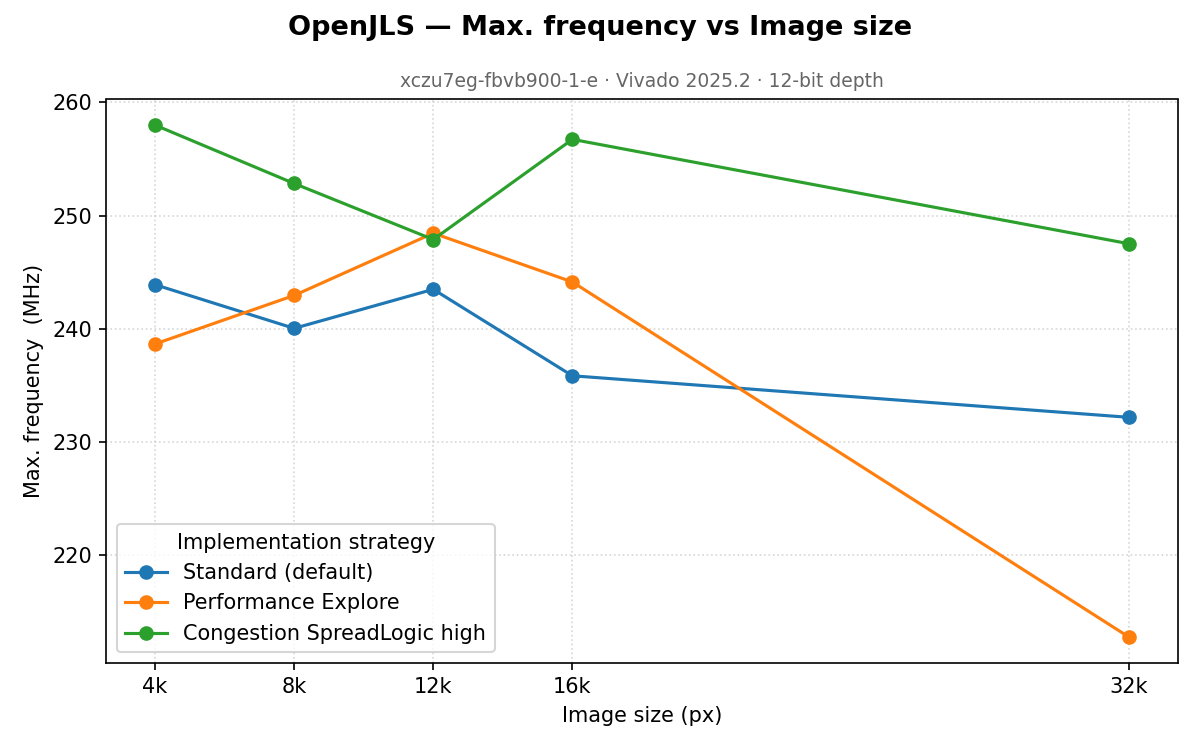
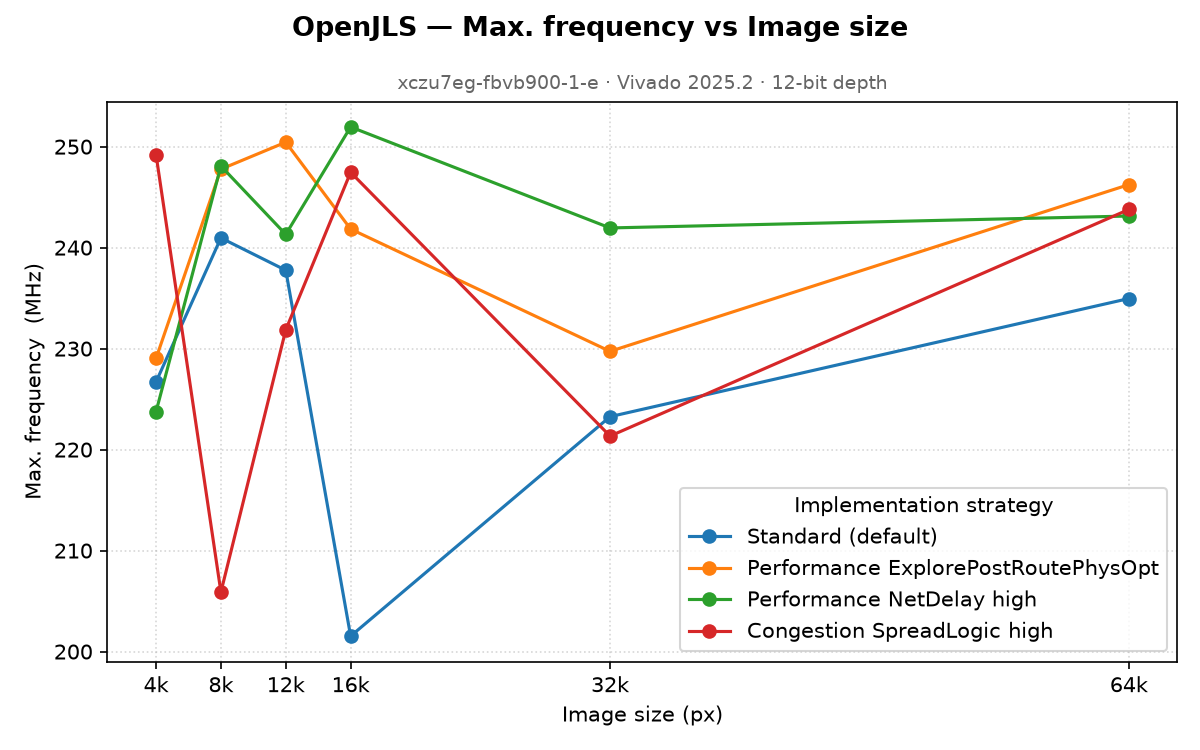
Update fmax/resource data in README and datasheet for the retuned strategies
Refresh the characterization with the current (post bug-fix) RTL and the new
implementation-strategy set. No single strategy wins at every size (the design
is congestion-bound), so document per-size winners; quote the defensible
~240 MHz (best-of floor is 242, only one size tops 250) instead of ~250, with a
242-252 best-of range. Regenerate the fmax plot (Default + EPRPO + NetDelay +
Congestion; Explore dropped) and resource table (incl. 65535).

diff --git a/Docs/datasheet/openjls_datasheet.tex b/Docs/datasheet/openjls_datasheet.tex
@@ -68,7 +68,7 @@ AXI4-Stream. Source, license and the full verification suite are public at
   Image size    & Up to $65535\times65535$ px, minimum $4\times1$ \\
   Throughput    & 1 pixel / clock \\
   Latency       & 14 clock cycles \\
-  $f_{max}$     & $\sim$250\,MHz (Xilinx UltraScale+ \texttt{xczu7eg-1}, RTL-only) \\
+  $f_{max}$     & $\sim$240\,MHz (Xilinx UltraScale+ \texttt{xczu7eg-1}, RTL-only) \\
   Interface     & AXI4-Stream input (pixels) and output (bitstream) \\
   Memory        & On-chip line buffer, one image row; no external RAM \\
   Resources     & $\sim$8k LUT, $\sim$2.1k FF + BRAM scaling with image width \\
@@ -103,7 +103,7 @@ bitstream is self-delimiting.
 \end{tabularx}
 
 %======================================================================
-\section{Signals}
+\section{Ports}
 All ports are synchronous to the rising edge of \texttt{iClk}. The streaming
 ports map one-to-one onto AXI4-Stream as shown.
 
@@ -140,7 +140,7 @@ under downstream backpressure.
 \begin{center}
 \begin{tikztimingtable}[timing/slope=0.1,xscale=1.7]
   iClk    & 8{C}        \\
-  iPixel  & D{P0} D{P1} 3D{P2} D{P3} D{P4} D{P5} \\
+  iPixel  & D{P0} 4D{P1} 2D{P2} D{P3}\\
   iValid  & 8H          \\
   oReady  & HHLLHHHH     \\
 \end{tikztimingtable}
@@ -158,10 +158,10 @@ with a simulation warning.
 
 \begin{center}
 \begin{tikztimingtable}[timing/slope=0.1,xscale=1.45]
-  iClk         & 0.5L 6{C} 0.5H \\
+  iClk         & 7{C}          \\
   iImageWidth  & D{W0} 6D{W1}  \\
   iImageHeight & D{H0} 6D{H1}  \\
-  iRst         & LLLLHLL        \\
+  iRst         & LLLHHLL        \\
   sImageWidth  & 5D{W0} 2D{W1} \\
   sImageHeight & 5D{H0} 2D{H1} \\
 \end{tikztimingtable}
@@ -178,21 +178,22 @@ its valid bytes. Pipeline latency is 14 clock cycles.
 \section{Resources and performance}
 Characterized on Xilinx Zynq UltraScale+ \texttt{xczu7eg-fbvb900-1-e},
 Vivado 2025.2, 12-bit, RTL-only (no floorplanning). $f_{max}$ is true fmax
-(over-constrained until timing fails); at one pixel/clock $\sim$250\,MHz is
-$\sim$250\,Mpixel/s.
+(over-constrained until timing fails); at one pixel/clock $\sim$240\,MHz is
+$\sim$240\,Mpixel/s.
 
 \begin{minipage}[t]{0.49\textwidth}
 \centering
 \textbf{$f_{max}$ (MHz) vs image width}\\[2pt]
-\begin{tabular}{@{}r r r r@{}}
+\begin{tabular}{@{}r r r@{}}
   \toprule
-  Width & Default & Perf.Exp. & Cong.Spread \\
+  Width & Default & Best-of$^\dagger$ \\
   \midrule
-  4096  & 243.9 & 238.7 & \textbf{258.0} \\
-  8192  & 240.0 & 243.0 & \textbf{252.8} \\
-  12288 & 243.5 & \textbf{248.5} & 247.9 \\
-  16384 & 235.9 & 244.1 & \textbf{256.7} \\
-  32768 & 232.2 & 212.8 & \textbf{247.5} \\
+  4096  & 226.7 & \textbf{249.2} \\
+  8192  & 241.0 & \textbf{248.1} \\
+  12288 & 237.8 & \textbf{250.4} \\
+  16384 & 201.5 & \textbf{252.0} \\
+  32768 & 223.3 & \textbf{242.0} \\
+  65535 & 235.0 & \textbf{246.2} \\
   \bottomrule
 \end{tabular}
 \end{minipage}\hfill
@@ -203,18 +204,23 @@ $\sim$250\,Mpixel/s.
   \toprule
   Width & LUT & FF & BRAM \\
   \midrule
-  4096  & 8048 & 2059 & 1.5 \\
-  8192  & 7930 & 2062 & 3.0 \\
-  12288 & 7855 & 2087 & 4.5 \\
-  16384 & 7877 & 2089 & 5.5 \\
-  32768 & 7990 & 2095 & 11.0 \\
+  4096  & 7512 & 2055 & 1.5 \\
+  8192  & 7545 & 2091 & 3.0 \\
+  12288 & 7546 & 2123 & 4.5 \\
+  16384 & 7674 & 2137 & 5.5 \\
+  32768 & 7636 & 2137 & 11.0 \\
+  65535 & 7781 & 2162 & 22.0 \\
   \bottomrule
 \end{tabular}
 \end{minipage}
 
 \vspace{6pt}
-\noindent Logic is essentially constant with image size; only the line-buffer
-BRAM scales with width and pixel depth.
+\noindent $^\dagger$Best of three implementation strategies
+(\texttt{Congestion\_SpreadLogic\_high}, \texttt{Performance\_NetDelay\_high},
+\texttt{Performance\_ExplorePostRoutePhysOpt}); the design is congestion-bound,
+so the winning strategy shifts with image size (results are deterministic, so
+the per-size winner is a reliable selection). Logic is essentially constant with
+image size; only the line-buffer BRAM scales with width and pixel depth.
 
 %======================================================================
 \section{Integration example}

diff --git a/README.md b/README.md
@@ -4,7 +4,7 @@ OpenJLS is a **JPEG-LS encoder IP core for FPGAs** for real-time image compressi
 
 It implements the JPEG-LS standard (described by ISO/IEC 14495-1 or ITU-T T.87) — a low-complexity lossless image codec with compression ratios comparable to JPEG 2000 lossless at a fraction of the computational cost, and no external memory required.
 
-OpenJLS can reach a maximum frequency up to ~250 MHz on a Xilinx UltraScale+ ZU7EG, an MPSoC often used in space applications, and it processes 1 pixel per clock, resulting in ~250 MPixels/s. It operates on single-component data, often called grayscale, so in a satellite camera with multiple bands each band would need its own compressor; this is not an issue since the resource usage is minimal, and it greatly increases throughput since each compressor can operate in parallel.
+OpenJLS reaches ~240 MHz on a Xilinx UltraScale+ ZU7EG, an MPSoC often used in space applications, and it processes 1 pixel per clock, resulting in ~240 MPixels/s. It operates on single-component data, often called grayscale, so in a satellite camera with multiple bands each band would need its own compressor; this is not an issue since the resource usage is minimal, and it greatly increases throughput since each compressor can operate in parallel.
 
 OpenJLS is vendor-agnostic, targeting any FPGA platform.
 
@@ -122,23 +122,24 @@ The core is a single entity, `openjls_top`, configured by generics and driven th
 
 ## Performance & Resources
 
-Characterized on a Xilinx Zynq UltraScale+ `xczu7eg-fbvb900-1-e` (speed grade −1, slowest), Vivado 2025.2, 12-bit grayscale. Frequencies are *true fmax* — read by over-constraining the clock until the design failed timing. Results are RTL-only, no floorplanning or vendor-specific optimizations, and vary with device, tool version, and implementation strategy; treat them as representative, not guaranteed. At one pixel/clock, ~250 MHz is ~250 Mpixel/s.
+Characterized on a Xilinx Zynq UltraScale+ `xczu7eg-fbvb900-1-e` (speed grade −1, slowest), Vivado 2025.2, 12-bit grayscale. Frequencies are *true fmax* — read by over-constraining the clock until the design failed timing. Results are RTL-only, no floorplanning or vendor-specific optimizations, and vary with device, tool version, and implementation strategy; treat them as representative, not guaranteed. At one pixel/clock, ~240 MHz is ~240 Mpixel/s.
 
 ### Maximum frequency vs image size
 
 ![Maximum frequency vs image size](Docs/Images/fmax_vs_size.png)
 
-The encoder holds ~250 MHz largely independent of image size with a strategy focusing on *handling congestion* and ~240 MHz on Default strategy.
+No single strategy wins at every size: the design is congestion-bound, so the best implementation strategy shifts with the image's on-chip BRAM footprint. Small images pack the logic tightly (little line-buffer BRAM to spread it) and favour congestion-spreading; large images are already spread by their BRAM and favour net-delay or post-route optimisation. Taking the best strategy per size, fmax stays in the **~242–252 MHz** band; the Default strategy ranges ~200–241 MHz.
 
-| Image width | Default | Performance_Explore | Congestion_SpreadLogic_high |
-|------------:|--------:|--------------------:|----------------------------:|
-| 4096 | 243.9 | 238.7 | **258.0** |
-| 8192 | 240.0 | 243.0 | **252.8** |
-| 12288 | 243.5 | **248.5** | 247.9 |
-| 16384 | 235.9 | 244.1 | **256.7** |
-| 32768 | 232.2 | 212.8 | **247.5** |
+| Image width | Default | ExplorePostRoutePhysOpt | NetDelay_high | Congestion_SpreadLogic_high |
+|------------:|--------:|------------------------:|--------------:|----------------------------:|
+| 4096 | 226.7 | 229.0 | 223.8 | **249.2** |
+| 8192 | 241.0 | 247.8 | **248.1** | 205.9 |
+| 12288 | 237.8 | **250.4** | 241.3 | 231.9 |
+| 16384 | 201.5 | 241.8 | **252.0** | 247.5 |
+| 32768 | 223.3 | 229.7 | **242.0** | 221.3 |
+| 65535 | 235.0 | **246.2** | 243.1 | 243.8 |
 
-Maximum frequency (MHz) by image width and implementation strategy; best per row in bold.
+Maximum frequency (MHz) by image width and implementation strategy; best per row in bold. Results are deterministic (re-running a given size/strategy reproduces the number exactly), so the per-size winner is a reliable selection — pick the strategy for the target resolution.
 
 ### Resource usage vs image size
 
@@ -148,11 +149,12 @@ Logic is essentially constant across image size — LUTs (~8k) and flip-flops (~
 
 | Image width | LUTs | FFs | BRAM tiles |
 |------------:|-----:|----:|-----------:|
-| 4096 | 8048 | 2059 | 1.5 |
-| 8192 | 7930 | 2062 | 3.0 |
-| 12288 | 7855 | 2087 | 4.5 |
-| 16384 | 7877 | 2089 | 5.5 |
-| 32768 | 7990 | 2095 | 11.0 |
+| 4096 | 7512 | 2055 | 1.5 |
+| 8192 | 7545 | 2091 | 3.0 |
+| 12288 | 7546 | 2123 | 4.5 |
+| 16384 | 7674 | 2137 | 5.5 |
+| 32768 | 7636 | 2137 | 11.0 |
+| 65535 | 7781 | 2162 | 22.0 |
 
 Resource usage by image width (default strategy; near-identical across strategies). Reproduce both tables with [`Scripts/run_fmax_sweep.sh`](Scripts/run_fmax_sweep.sh).
 